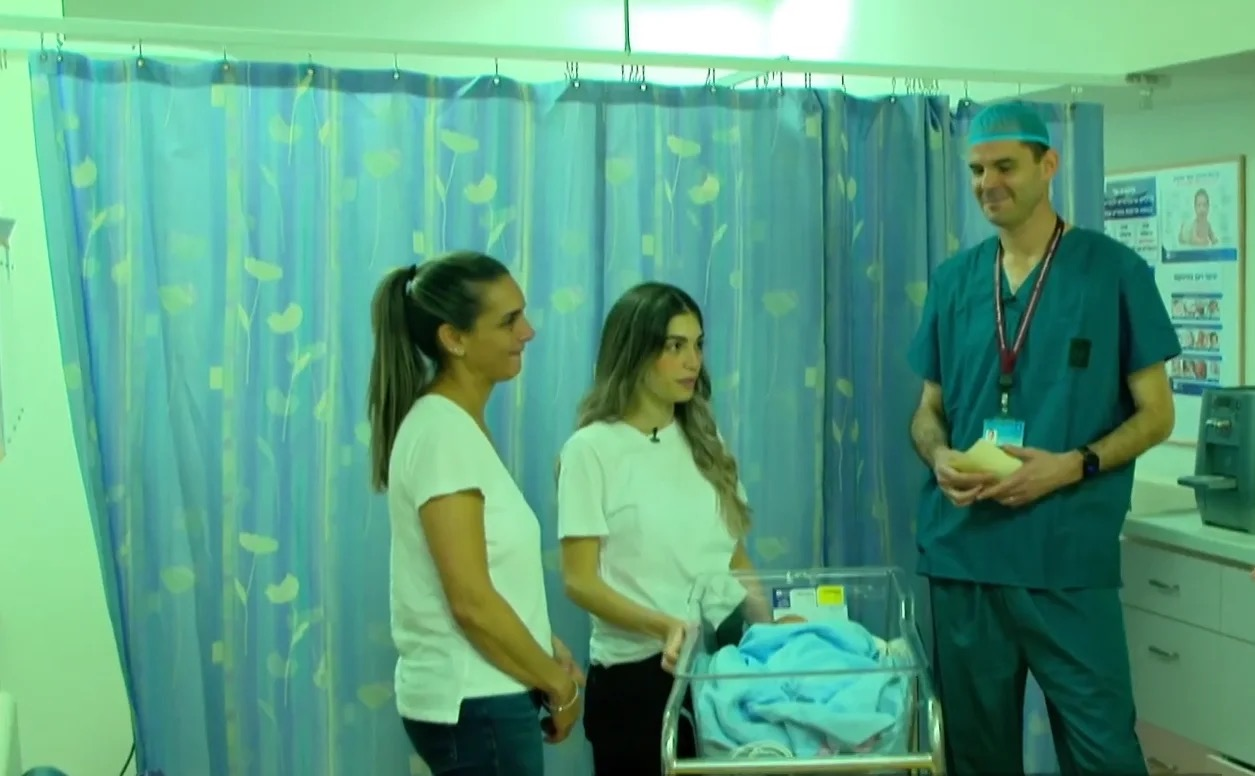
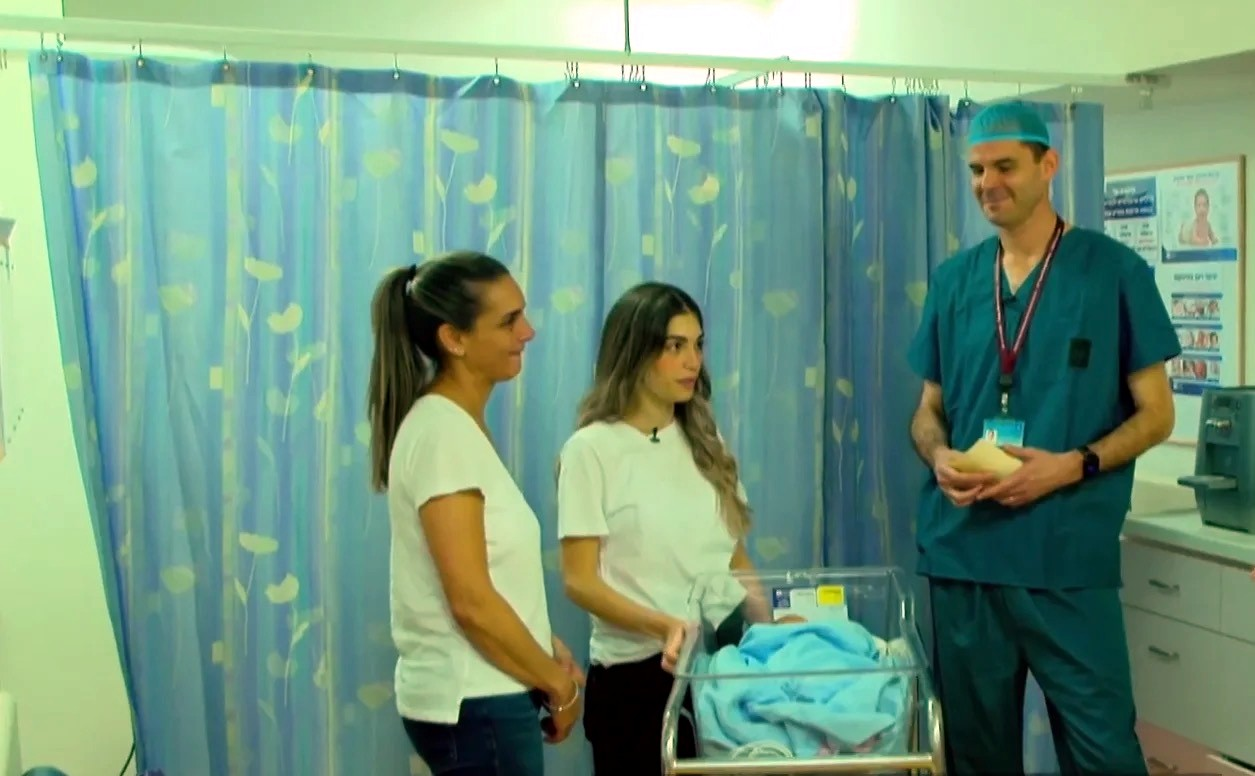
Polish Press page images and move video to bottom
- Moved the video showcase from the top of the page to the bottom
  (below the article grid), per request.
- Fixed the headless photo: the page22 card image (Dr. Kabiri holding
  baby Ariel) is a portrait that the 16:9 card crop cut at the neck;
  added object-position:center top so the head is preserved.
- Replaced two unreadable newspaper-clipping thumbnails with clean
  branded fallback cards: page8 (text-only clipping) and page9
  (patient-back-to-camera clipping).
- Replaced the page7 clipping with a clean cropped photo of Dr. Kabiri
  at his clinic desk (extracted from the original high-res scan).
- Color-corrected the 13tv featured still (gray-world white balance)
  to remove the green broadcast tint.
- Translated the Chen Nistafov card excerpt from English to Hebrew for
  consistency with the rest of the page.

diff --git a/page25.html b/page25.html
@@ -591,15 +591,6 @@
 <div class="press-section__rule" aria-hidden="true"></div>
 </header>
 
-<section class="press-video" dir="rtl" aria-labelledby="press-video-heading">
-<h2 id="press-video-heading" class="press-video__heading">וידאו</h2>
-<p class="press-video__caption">ענת אלינב, "ללדת זה אחלה" — מופע ספוקן-וורד על חוויית הלידה.</p>
-<video controls preload="metadata" playsinline style="width:100%;max-width:760px;border-radius:10px;display:block;margin:0 auto;" poster="media/anat-elinav.png">
-<source src="media/video/anat-elinav-poetry-slam.mp4" type="video/mp4"/>
-הדפדפן שלך אינו תומך בתגית וידאו.
-</video>
-</section>
-
 <div class="press-filter" role="tablist" aria-label="סנן לפי כלי תקשורת">
 <button type="button" class="press-filter__chip is-active" data-filter="all" role="tab" aria-selected="true">הכל</button>
 <button type="button" class="press-filter__chip" data-filter="הדסה" role="tab" aria-selected="false">הדסה</button>
@@ -655,13 +646,13 @@
 <article class="press-card" data-source="הדסה">
 <a class="press-card__link" href="media-mirrors/page22-mirror/index.html" aria-label="קרא את הכתבה: הטיפול בהדסה הצליח">
 <div class="press-card__media">
-<img src="media/press/page22.jpg" alt="הדסה - הטיפול בהדסה הצליח" loading="lazy"/>
+<img src="media/press/page22.jpg" alt="הדסה - הטיפול בהדסה הצליח" loading="lazy" style="object-position: center top;"/>
 <span class="press-card__source-badge" aria-label="פורסם בהדסה">הדסה</span>
 </div>
 <div class="press-card__body">
 <time class="press-card__date" datetime="2023-01-07"><i class="fa fa-calendar" aria-hidden="true"></i> 7 בינואר 2023</time>
 <h3 class="press-card__title">הטיפול בהדסה הצליח</h3>
-<p class="press-card__excerpt">After two devastating premature births, Chen Nistafov was placed under the close care of Dr. Doron Kabiri's high-risk pregnancy team at Hadassah. With intensive</p>
+<p class="press-card__excerpt">לאחר שתי לידות מוקדמות קשות, חן ניסטפוב הגיעה למעקב צמוד אצל צוות ההריון בסיכון גבוה של ד״ר דורון כבירי בהדסה, שליווה אותה עד ללידת תינוק בריא.</p>
 <span class="press-card__cta" aria-hidden="true">קרא עוד <i class="fa fa-angle-left"></i></span>
 </div>
 </a>
@@ -714,7 +705,7 @@
 <article class="press-card" data-source="הדסה">
 <a class="press-card__link" href="media-mirrors/page8-mirror/index.html" aria-label="קרא את הכתבה: פתיחת המרכז למניעת לידה מוקדמת בהדסה">
 <div class="press-card__media">
-<img src="media/43e30de3-7763-4755-b738-1eabbeebf104.jpg" alt="פתיחת המרכז למניעת לידה מוקדמת בהדסה" loading="lazy"/>
+<div class="press-card__media--fallback"><span class="fallback-kicker">פורסם ב</span><span class="fallback-source">הדסה</span></div>
 <span class="press-card__source-badge" aria-label="פורסם בהדסה">הדסה</span>
 </div>
 <div class="press-card__body">
@@ -733,7 +724,7 @@
 <article class="press-card" data-source="ישראל היום">
 <a class="press-card__link" href="page9.html" aria-label="קרא את הכתבה: גידול המח שהתגלה בזמן ההריון">
 <div class="press-card__media">
-<img src="media/img_0501.jpg" alt="גידול המח שהתגלה בזמן ההריון" loading="lazy"/>
+<div class="press-card__media--fallback"><span class="fallback-kicker">פורסם ב</span><span class="fallback-source">ישראל היום</span></div>
 <span class="press-card__source-badge" aria-label="פורסם בישראל היום">ישראל היום</span>
 </div>
 <div class="press-card__body">
@@ -748,7 +739,7 @@
 <article class="press-card" data-source="הדסה">
 <a class="press-card__link" href="page7.html" aria-label="קרא את הכתבה: מוקדם זה לא בהכרח בטוח">
 <div class="press-card__media">
-<img src="media/img_0322.jpg" alt="מוקדם זה לא בהכרח בטוח" loading="lazy"/>
+<img src="media/press/page7-kabiri.jpg" alt="ד״ר דורון כבירי במרפאה - מוקדם זה לא בהכרח בטוח" loading="lazy"/>
 <span class="press-card__source-badge" aria-label="פורסם בהדסה">הדסה</span>
 </div>
 <div class="press-card__body">
@@ -761,6 +752,16 @@
 
 </div>
 </div>
+
+<section class="press-video" dir="rtl" aria-labelledby="press-video-heading">
+<h2 id="press-video-heading" class="press-video__heading">וידאו</h2>
+<p class="press-video__caption">ענת אלינב, "ללדת זה אחלה" — מופע ספוקן-וורד על חוויית הלידה.</p>
+<video controls preload="metadata" playsinline style="width:100%;max-width:760px;border-radius:10px;display:block;margin:0 auto;" poster="media/anat-elinav.png">
+<source src="media/video/anat-elinav-poetry-slam.mp4" type="video/mp4"/>
+הדפדפן שלך אינו תומך בתגית וידאו.
+</video>
+</section>
+
 </div>
 </section>
 
